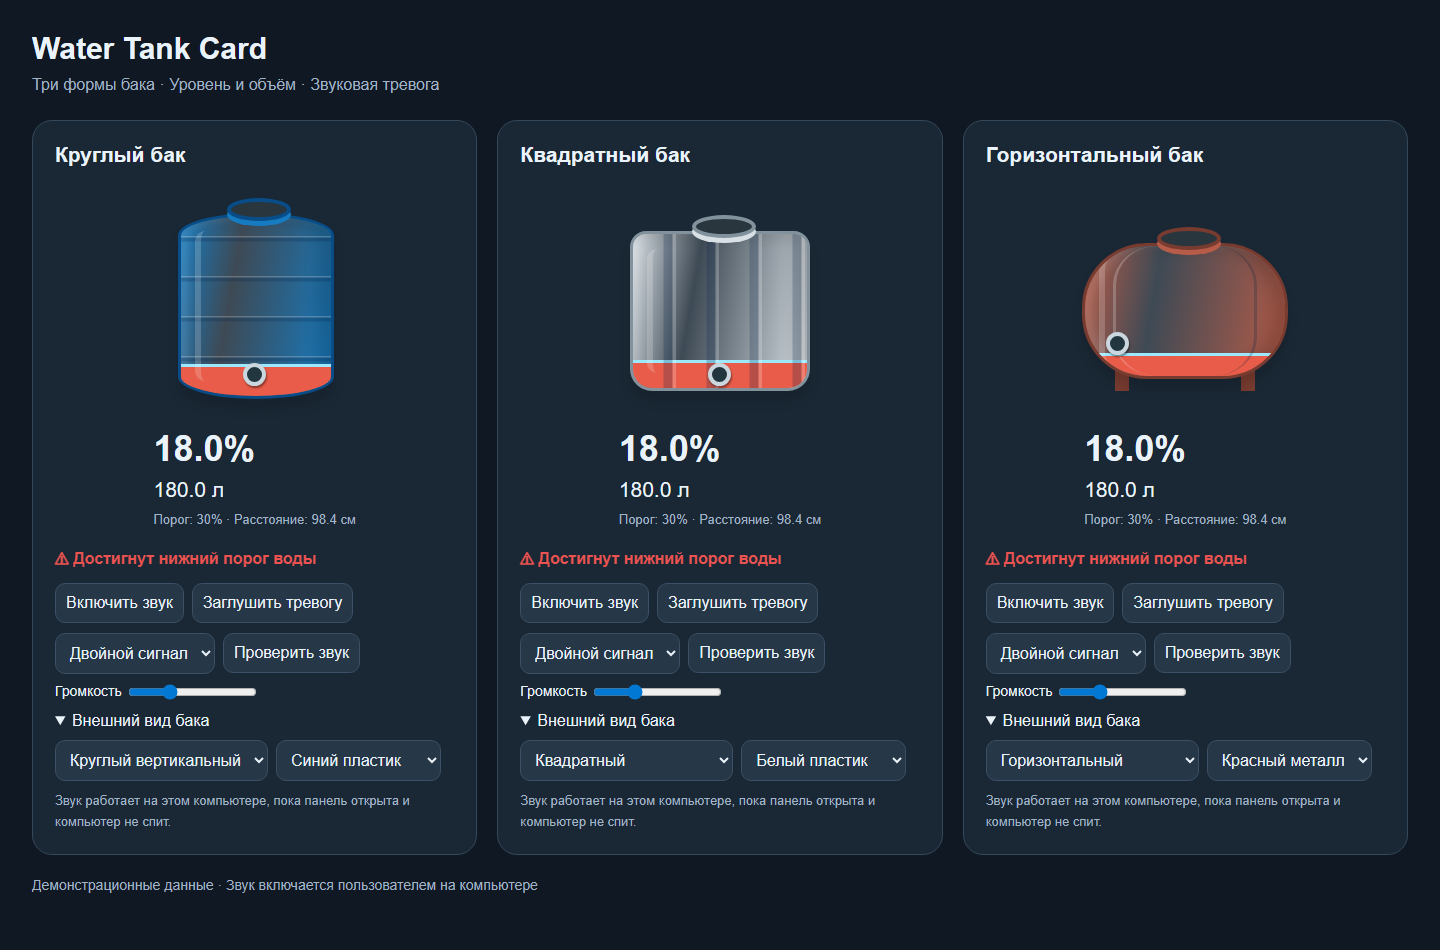
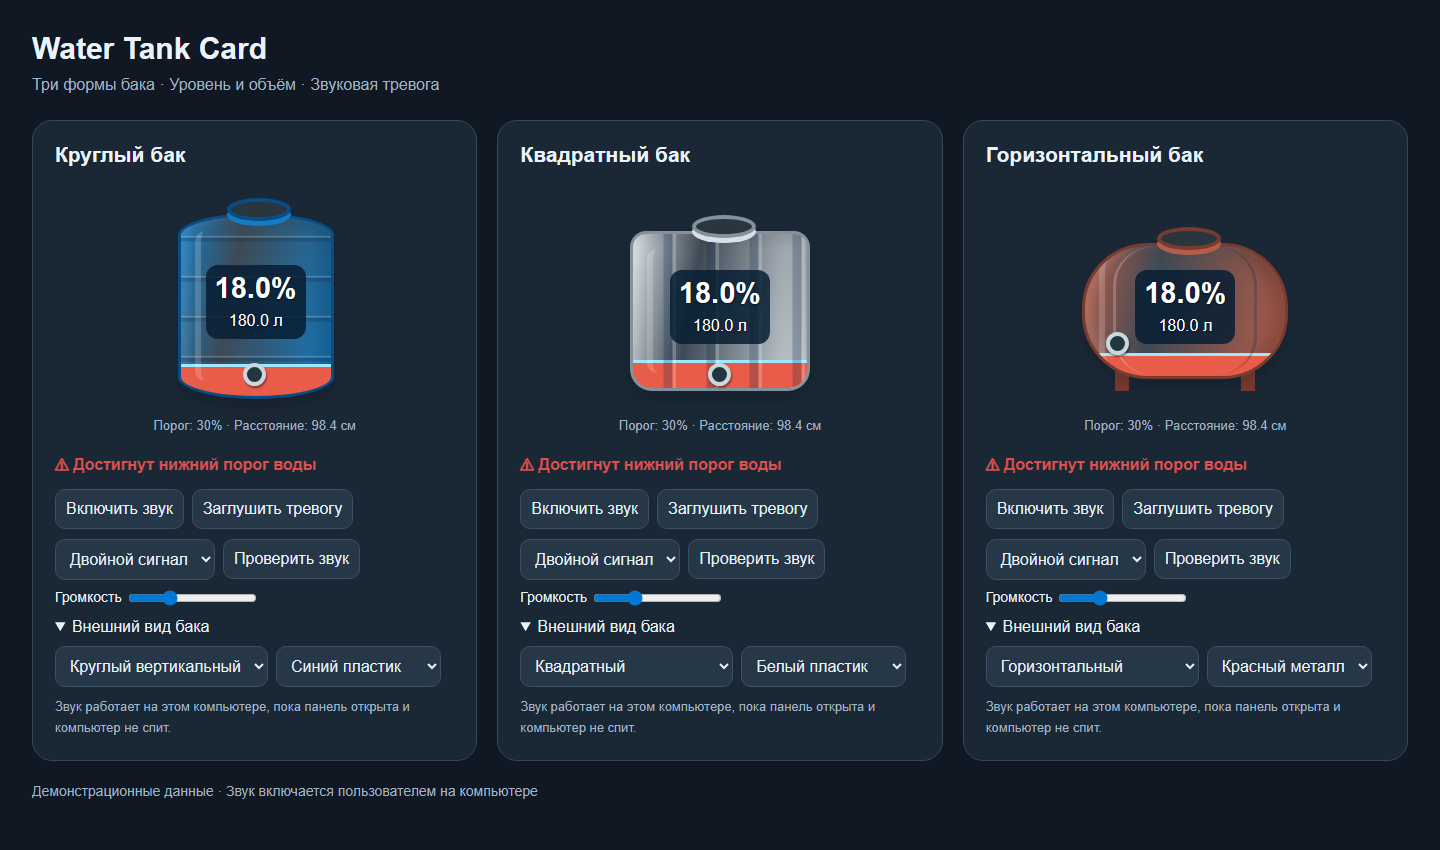
Move readings inside tank and add native visual editor

diff --git a/water-tank-card.js b/water-tank-card.js
@@ -1,5 +1,66 @@
 /* Standalone Home Assistant card. No changes to firmware or phone notifications. */
 class WaterTankCard extends HTMLElement {
+  // Home Assistant renders the native entity pickers, expandable sections and preview.
+  static getConfigForm() {
+    const numericEntity = { entity: { domain: ['sensor', 'number', 'input_number'] } };
+    const labels = {
+      entity: 'Уровень воды (%)', name: 'Название карточки', volume_entity: 'Объём воды (литры)',
+      distance_entity: 'Расстояние до воды (см)', valid_entity: 'Достоверность измерения (необязательно)',
+      threshold_entity: 'Нижний порог (%)', tank_shape: 'Форма бака', tank_color: 'Материал и цвет'
+    };
+    const helpers = {
+      entity: 'Выберите датчик процентов 0–100. Датчик литров указывается отдельно.',
+      volume_entity: 'Необязательно. Текущий объём воды, а не полная ёмкость бака.',
+      distance_entity: 'Необязательно. Расстояние от датчика до поверхности воды.',
+      valid_entity: 'Только объект со значениями True/False или on/off. Если такого нет, оставьте пустым.',
+      threshold_entity: 'Отдельный объект порога, например Low level threshold. Не выбирайте здесь сам уровень воды. Звук и громкость настраиваются кнопками в карточке.'
+    };
+    return {
+      schema: [
+        { name: 'entity', required: true, selector: numericEntity },
+        { name: 'content', type: 'expandable', title: 'Содержимое', icon: 'mdi:text-box-outline', flatten: true,
+          schema: [
+            { name: 'name', selector: { text: {} } },
+            { name: 'volume_entity', selector: numericEntity },
+            { name: 'distance_entity', selector: numericEntity },
+            { name: 'valid_entity', selector: { entity: { domain: ['binary_sensor', 'sensor', 'input_boolean'] } } }
+          ] },
+        { name: 'appearance', type: 'expandable', title: 'Внешний вид', icon: 'mdi:palette-outline', flatten: true,
+          schema: [
+            { name: 'tank_shape', selector: { select: { mode: 'dropdown', options: [
+              { value: 'vertical', label: 'Круглый вертикальный' }, { value: 'square', label: 'Квадратный' },
+              { value: 'horizontal', label: 'Горизонтальный' }
+            ] } } },
+            { name: 'tank_color', selector: { select: { mode: 'dropdown', options: [
+              { value: 'blue', label: 'Синий пластик' }, { value: 'white', label: 'Белый пластик' },
+              { value: 'metal', label: 'Красный металл' }
+            ] } } }
+          ] },
+        { name: 'alarm', type: 'expandable', title: 'Оповещения', icon: 'mdi:bell-outline', flatten: true, expanded: true,
+          schema: [{ name: 'threshold_entity', required: true, selector: numericEntity }] }
+      ],
+      computeLabel: schema => labels[schema.name],
+      computeHelper: schema => helpers[schema.name]
+    };
+  }
+
+  static getStubConfig(hass) {
+    const config = { name: 'Бак воды', tank_shape: 'vertical', tank_color: 'blue' };
+    const states = hass?.states || {};
+    const levels = Object.keys(states).filter(id => id.startsWith('sensor.') && id.endsWith('_water_level'));
+    // Only pair the known Wemos naming scheme when there is a single unambiguous tank.
+    if (levels.length === 1) {
+      config.entity = levels[0];
+      const base = levels[0].slice('sensor.'.length, -'_water_level'.length);
+      const companions = {
+        volume_entity: `sensor.${base}_water_volume`, distance_entity: `sensor.${base}_water_distance`,
+        valid_entity: `sensor.${base}_measurement_valid`, threshold_entity: `number.${base}_low_level_threshold`
+      };
+      for (const [key, id] of Object.entries(companions)) if (states[id]) config[key] = id;
+    }
+    return config;
+  }
+
   constructor() {
     super();
     this.attachShadow({ mode: 'open' });
@@ -41,8 +102,8 @@ class WaterTankCard extends HTMLElement {
     if (this.audio) this.audio.close().catch(() => {});
     this.audio = null;
   }
-  getCardSize() { return 7; }
-  getGridOptions() { return { columns: 12, rows: 7, min_columns: 6 }; }
+  getCardSize() { return 10; }
+  getGridOptions() { return { columns: 12, rows: 'auto', min_columns: 6 }; }
 
   number(entity) {
     const state = this._hass?.states?.[entity]?.state;
@@ -56,7 +117,7 @@ class WaterTankCard extends HTMLElement {
       <style>
         ha-card { padding:22px; color:var(--primary-text-color); }
         h2 { margin:0 0 16px; font-size:21px; }
-        .main { display:flex; gap:20px; flex-wrap:wrap; align-items:center; justify-content:center; }
+        .main { display:flex; flex-direction:column; gap:8px; align-items:center; }
         .vessel { --shell:#167bc0; --edge:#084d87; position:relative; width:210px; height:225px; flex-shrink:0; }
         .vessel[data-color="white"] { --shell:#d9e0e5; --edge:#82929d; }
         .vessel[data-color="metal"] { --shell:#b65c48; --edge:#783b30; }
@@ -84,7 +145,14 @@ class WaterTankCard extends HTMLElement {
         .water { position:absolute; bottom:0; width:100%; background:linear-gradient(#39c8ed,#177bc7);
           transition:height 1s; border-top:3px solid #9ce9ff; box-sizing:border-box; }
         .tank:after { content:''; position:absolute; inset:15px 14px; border-left:6px solid #ffffff30; border-radius:10px; }
-        .percent { font-size:36px; font-weight:700; } .liters { font-size:21px; margin:8px 0; }
+        .readings { position:absolute; inset:0; z-index:3; display:flex; align-items:center; justify-content:center;
+          padding:8px; box-sizing:border-box; pointer-events:none; }
+        .readings-panel { max-width:100%; box-sizing:border-box; padding:7px 9px; border-radius:12px;
+          background:#071d32d9; color:#fff; text-align:center; text-shadow:0 1px 2px #0008;
+          font-variant-numeric:tabular-nums; transform:translateY(-4px); }
+        .percent { font-size:29px; line-height:1.15; font-weight:750; white-space:nowrap; }
+        .liters { font-size:16px; line-height:1.3; margin-top:5px; overflow-wrap:anywhere; }
+        .meta { text-align:center; }
         .meta, .hint { color:var(--secondary-text-color); font-size:13px; line-height:1.6; }
         .alarm { min-height:26px; margin:16px 0 8px; font-weight:600; }
         .alert { color:#ef5350; animation:blink 1.2s infinite; }
@@ -99,9 +167,10 @@ class WaterTankCard extends HTMLElement {
       <ha-card>
         <h2></h2>
         <div class="main"><div class="vessel" role="img" aria-label="Бак воды">
-          <div class="feet"></div><div class="tank"><div class="water"></div><div class="ribs"></div></div>
+          <div class="feet"></div><div class="tank"><div class="water"></div><div class="ribs"></div>
+            <div class="readings"><div class="readings-panel"><div class="percent">—</div><div class="liters">—</div></div></div></div>
           <div class="lid"></div><div class="outlet"></div></div>
-          <div><div class="percent">—</div><div class="liters">—</div><div class="meta"></div></div>
+          <div class="meta"></div>
         </div>
         <div class="alarm" role="status" aria-live="polite"></div>
         <div class="controls">
@@ -129,7 +198,7 @@ class WaterTankCard extends HTMLElement {
       const select = root.querySelector(`#${id}`);
       for (const [value, label] of Object.entries(options)) select.add(new Option(label, value));
       select.value = this[id];
-      select.onchange = e => { this[id] = e.target.value; this.appearance(); this.save(); };
+      select.onchange = e => { this[id] = e.target.value; this.appearance(); this.save(); this.update(); };
     }
     this.appearance();
     root.querySelector('input').oninput = e => { this.volume = Number(e.target.value) / 100; this.save(); };
@@ -182,8 +251,9 @@ class WaterTankCard extends HTMLElement {
     root.querySelector('.percent').textContent = valid ? `${level.toFixed(1)}%` : '—';
     const liters = this.number(this.config.volume_entity);
     root.querySelector('.liters').textContent = valid && liters !== null && liters >= 0 ? `${liters.toFixed(1)} л` : '— л';
+    root.querySelector('.vessel').setAttribute('aria-label', `${this.shapes[this.shape]}, ${root.querySelector('.percent').textContent}, ${root.querySelector('.liters').textContent}`);
     const distance = this.number(this.config.distance_entity);
-    root.querySelector('.meta').textContent = `Порог: ${threshold === null ? '—' : threshold}% · Расстояние: ${distance !== null && distance >= 0 ? distance.toFixed(1) + ' см' : 'нет данных'}`;
+    root.querySelector('.meta').textContent = `Порог: ${threshold === null ? '—' : Number(threshold.toFixed(1))}% · Расстояние: ${distance !== null && distance >= 0 ? distance.toFixed(1) + ' см' : 'нет данных'}`;
     root.querySelector('.alarm').textContent = !valid ? 'Нет достоверных данных' : this.low ?
       (this.muted ? '⚠ Низкий уровень · звук заглушён' : '⚠ Достигнут нижний порог воды') : 'Уровень воды в норме';
     root.querySelector('.alarm').classList.toggle('alert', this.low);
@@ -236,4 +306,5 @@ class WaterTankCard extends HTMLElement {
 
 if (!customElements.get('water-tank-card')) customElements.define('water-tank-card', WaterTankCard);
 window.customCards = window.customCards || [];
-window.customCards.push({ type: 'water-tank-card', name: 'Бак воды', description: 'Уровень воды и звуковая тревога на компьютере' });
+window.customCards.push({ type: 'water-tank-card', name: 'Бак воды', description: 'Уровень воды и звуковая тревога на компьютере',
+  documentationURL: 'https://github.com/gekso88/HAOS_Water-Tank-Card#readme' });

diff --git a/tests/card.html b/tests/card.html
@@ -1,0 +1,92 @@
+<!doctype html>
+<meta charset="utf-8">
+<title>Water Tank Card browser checks</title>
+<style>body{font-family:sans-serif}ha-card{display:block}#fixture{width:360px}</style>
+<div id="fixture"></div><pre id="result">RUNNING</pre>
+<script src="../water-tank-card.js"></script>
+<script>
+try {
+  const Card = customElements.get('water-tank-card');
+  let count = 0;
+  const check = (condition, message) => { if (!condition) throw new Error(message); count++; };
+  const fields = [];
+  function flatten(schema) {
+    for (const field of schema) {
+      if (field.schema) {
+        check(field.flatten === true, 'Editor group must keep existing flat YAML keys');
+        flatten(field.schema);
+      } else fields.push(field);
+    }
+  }
+  const form = Card.getConfigForm();
+  flatten(form.schema);
+  for (const key of ['name','entity','threshold_entity','volume_entity','distance_entity','valid_entity','tank_shape','tank_color']) {
+    const field = fields.find(field => field.name === key);
+    check(!!field?.selector && !!form.computeLabel(field), `Editor field missing: ${key}`);
+  }
+  check(fields.find(f => f.name === 'entity').required, 'Level must be required');
+  check(fields.find(f => f.name === 'threshold_entity').required, 'Threshold must be required');
+  check(!fields.find(f => f.name === 'valid_entity').required, 'Validity must be optional');
+  check(!Card.getStubConfig({states:{'sensor.phone_battery':{state:'60'}}}).entity, 'Must not guess unrelated battery');
+  const pair = Card.getStubConfig({states:{'sensor.demo_water_level':{}, 'number.demo_low_level_threshold':{}, 'sensor.demo_water_volume':{}}});
+  check(pair.entity === 'sensor.demo_water_level' && pair.threshold_entity === 'number.demo_low_level_threshold', 'Wemos pairing');
+  check(!Card.getStubConfig({states:{'sensor.a_water_level':{},'sensor.b_water_level':{}}}).entity, 'Ambiguous tanks must be selected by user');
+
+  const config = {entity:'sensor.test_level',threshold_entity:'number.test_threshold',volume_entity:'sensor.test_volume',valid_entity:'binary_sensor.test_valid'};
+  const card = document.createElement('water-tank-card');
+  card.setConfig(config);
+  document.querySelector('#fixture').append(card);
+  const root = card.shadowRoot;
+  const state = (level, valid = 'on', connected = true) => ({connected,states:{
+    'sensor.test_level':{state:String(level)},'number.test_threshold':{state:'30'},
+    'sensor.test_volume':{state:String(Number(level)*10)},'binary_sensor.test_valid':{state:valid}
+  }});
+  card.hass = state(78);
+  for (const shape of ['vertical','square','horizontal']) {
+    root.querySelector('#shape').value = shape;
+    root.querySelector('#shape').dispatchEvent(new Event('change'));
+    const tank = root.querySelector('.tank').getBoundingClientRect();
+    const readings = root.querySelector('.readings-panel').getBoundingClientRect();
+    check(readings.left >= tank.left && readings.right <= tank.right && readings.top >= tank.top && readings.bottom <= tank.bottom, `Readings outside ${shape} tank`);
+    check(root.querySelector('.tank .percent').textContent === '78.0%', 'Percent inside tank');
+    check(root.querySelector('.tank .liters').textContent === '780.0 л', 'Liters inside tank');
+  }
+  root.querySelector('#color').value = 'white';
+  root.querySelector('#color').dispatchEvent(new Event('change'));
+  check(root.querySelector('.vessel').dataset.color === 'white', 'Color selector updates tank');
+  check(getComputedStyle(root.querySelector('.readings-panel')).color === 'rgb(255, 255, 255)', 'Readings keep contrasting color on white tank');
+  card.hass = state(31);
+  check(!card.low, 'No alarm above threshold');
+  card.hass = state(30);
+  check(card.low && root.querySelector('.alarm').classList.contains('alert'), 'Alarm at threshold');
+  check(root.querySelector('.water').style.height === '30%', 'Water fill at threshold');
+  let plays = 0;
+  card.play = () => { plays++; };
+  card.enabled = true;
+  card.update();
+  check(plays === 1 && !!card.timer, 'Enabled alarm starts and repeats');
+  card.hass = state(29);
+  check(plays === 1, 'Repeated state does not restart sound');
+  root.querySelector('#mute').click();
+  check(card.muted && !card.timer, 'Mute stops alarm timer');
+  card.hass = state('unavailable');
+  check(card.muted && !card.low && root.querySelector('.percent').textContent === '—', 'Missing data is not empty and preserves mute');
+  card.hass = state(28);
+  check(card.muted && !card.timer, 'Mute survives missing data');
+  card.hass = state(31);
+  check(!card.muted, 'Recovery clears mute');
+  card.hass = state(18);
+  check(plays === 2 && card.timer, 'New low starts new alarm');
+  card.hass = state(18, 'off');
+  check(!card.timer && root.querySelector('.liters').textContent === '— л', 'Invalid measurement stops sound and hides volume');
+  card.hass = state(18, 'on', false);
+  check(!card.timer && !card.low, 'Disconnect suppresses alarm');
+  card.hass = state(0);
+  check(card.low && root.querySelector('.percent').textContent === '0.0%', 'Zero is a valid empty tank');
+  card.remove();
+  check(!card.timer && !card.enabled, 'Removal stops sound');
+  document.querySelector('#result').textContent = `PASS: ${count} browser checks`;
+} catch (error) {
+  document.querySelector('#result').textContent = `FAIL: ${error.message}`;
+}
+</script>

diff --git a/README.md b/README.md
@@ -16,6 +16,8 @@
 
 ## Возможности
 
+- Проценты и литры внутри бака на контрастной подложке.
+- Визуальный редактор Home Assistant: выбор объектов, формы и цвета без YAML.
 - Три формы: круглый вертикальный, квадратный, горизонтальный на опорах.
 - Синий пластик, белый пластик и красный металл.
 - Нижний порог из существующего объекта Home Assistant.
@@ -31,7 +33,13 @@
 2. Вставьте `https://github.com/gekso88/HAOS_Water-Tank-Card`.
 3. Подключите GitHub, если Marketplace предложит это. Выберите тип **Панель / Dashboard**, если он запрашивается.
 4. Установите карточку и обновите страницу браузера.
-5. Добавьте ручную карточку на панель и вставьте YAML ниже, заменив идентификаторы на свои.
+5. На панели выберите **Добавить карточку → Бак воды**. Выберите датчик уровня и нижнего порога в визуальном редакторе. В разделе **Содержимое** укажите датчики литров, расстояния и при необходимости достоверности; в **Внешний вид** выберите форму и цвет.
+
+При обновлении уже установленной карточки загрузите свежую версию в Marketplace (через обновление или повторное скачивание) и перезагрузите страницу с очисткой кэша, например **Ctrl+F5**. После этого откройте редактирование карточки и нажмите **Форма ввода**, если пока отображается YAML.
+
+Редактор использует стандартный [API формы Home Assistant](https://contributors.home-assistant.io/frontend/custom-ui/card-editor/#a-visual-editor-with-a-form). Справа Home Assistant показывает предпросмотр. Настройки видимости и компоновки предоставляет сама панель Home Assistant.
+
+Можно также добавить ручную карточку и вставить YAML:
 
 Файл `hacs.json` является метаданными пакета для Marketplace; отдельная установка HACS не требуется.
 
@@ -48,6 +56,8 @@ tank_color: blue
 ```
 
 `entity` — обязательный процент заполнения 0–100. `threshold_entity` — обязательный числовой порог 0–100. Остальные объекты необязательны: литры, расстояние в сантиметрах, достоверность измерения (`True`, `on`, `1`). Не добавляйте `valid_entity`, если такого объекта нет.
+
+В `threshold_entity` выбирайте отдельный объект **Low level threshold**, а не **Water level**. В `valid_entity` выбирайте **Measurement valid**, а не датчик расстояния или процентов. При недостоверном измерении вместо значений внутри бака появятся прочерки.
 
 `tank_shape`: `vertical`, `square`, `horizontal`. `tank_color`: `blue`, `white`, `metal`.
 
